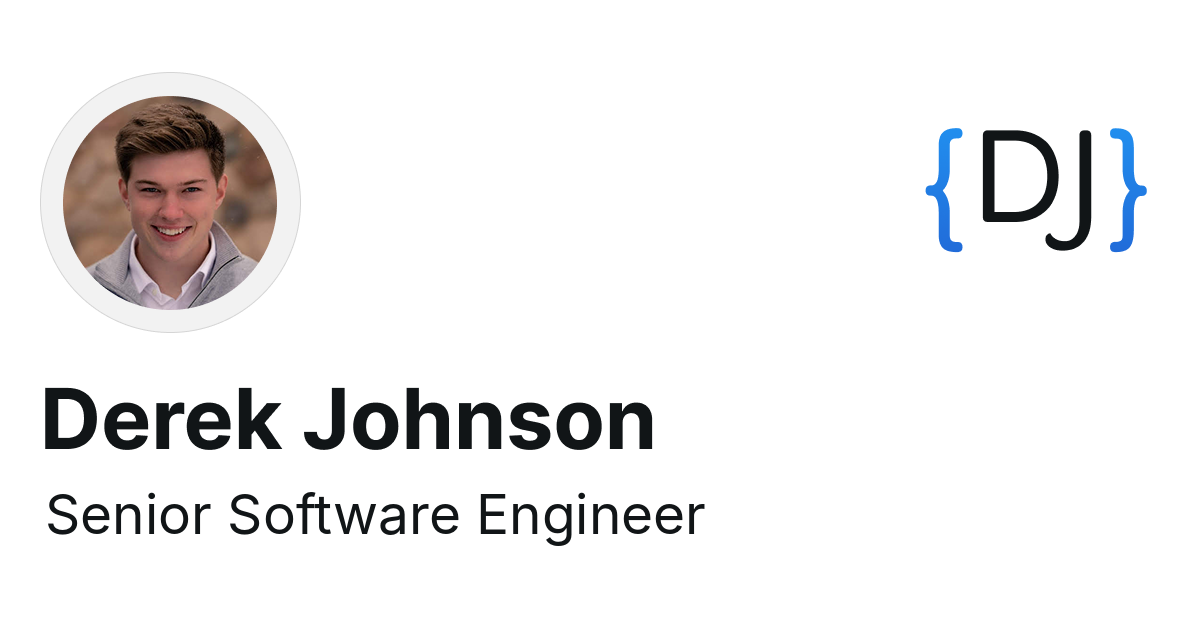
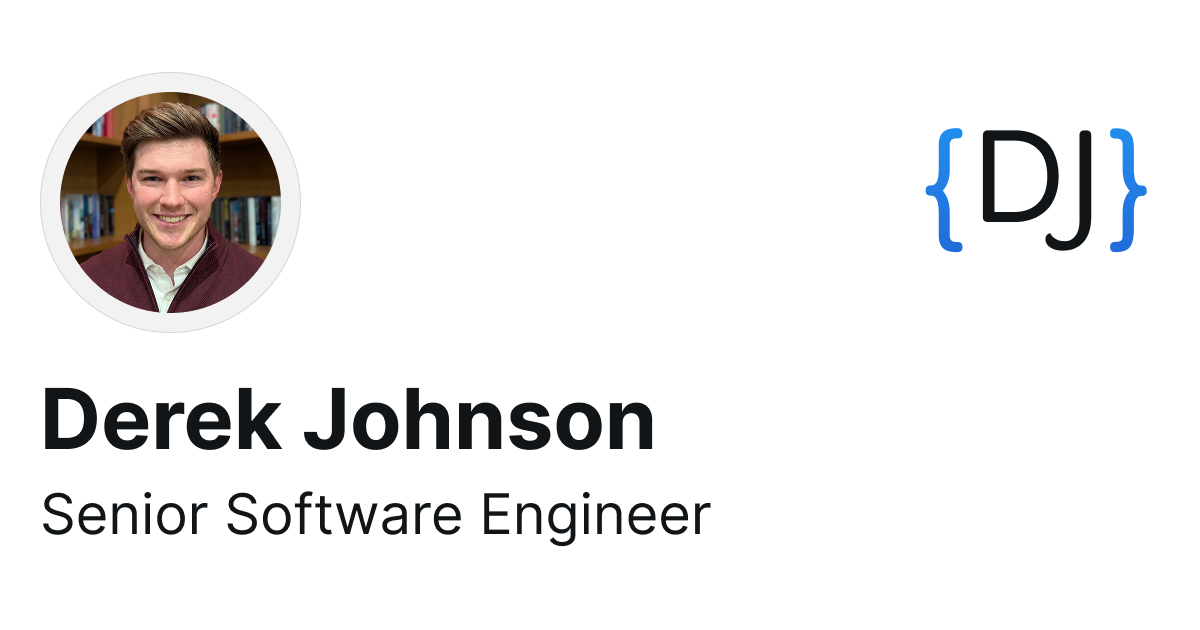
Image updates

Changed region(s): [[0.0308, 0.1206, 0.2467, 0.5127], [0.0308, 0.7841, 0.5858, 0.8746]]

diff --git a/src/app/app.component.html b/src/app/app.component.html
@@ -132,7 +132,7 @@
           <div class="relative">
             <div
               class="w-28 h-28 sm:w-64 sm:h-64 md:w-80 md:h-80 lg:w-96 lg:h-96 rounded-full bg-gradient-to-br from-blue-400 to-blue-600 p-1">
-              <img src="assets/images/headshot.jpg" [attr.alt]="'common.headshotAlt' | translate"
+              <img src="assets/images/headshot.png" [attr.alt]="'common.headshotAlt' | translate"
                 class="w-full h-full rounded-full object-cover" />
             </div>
           </div>
